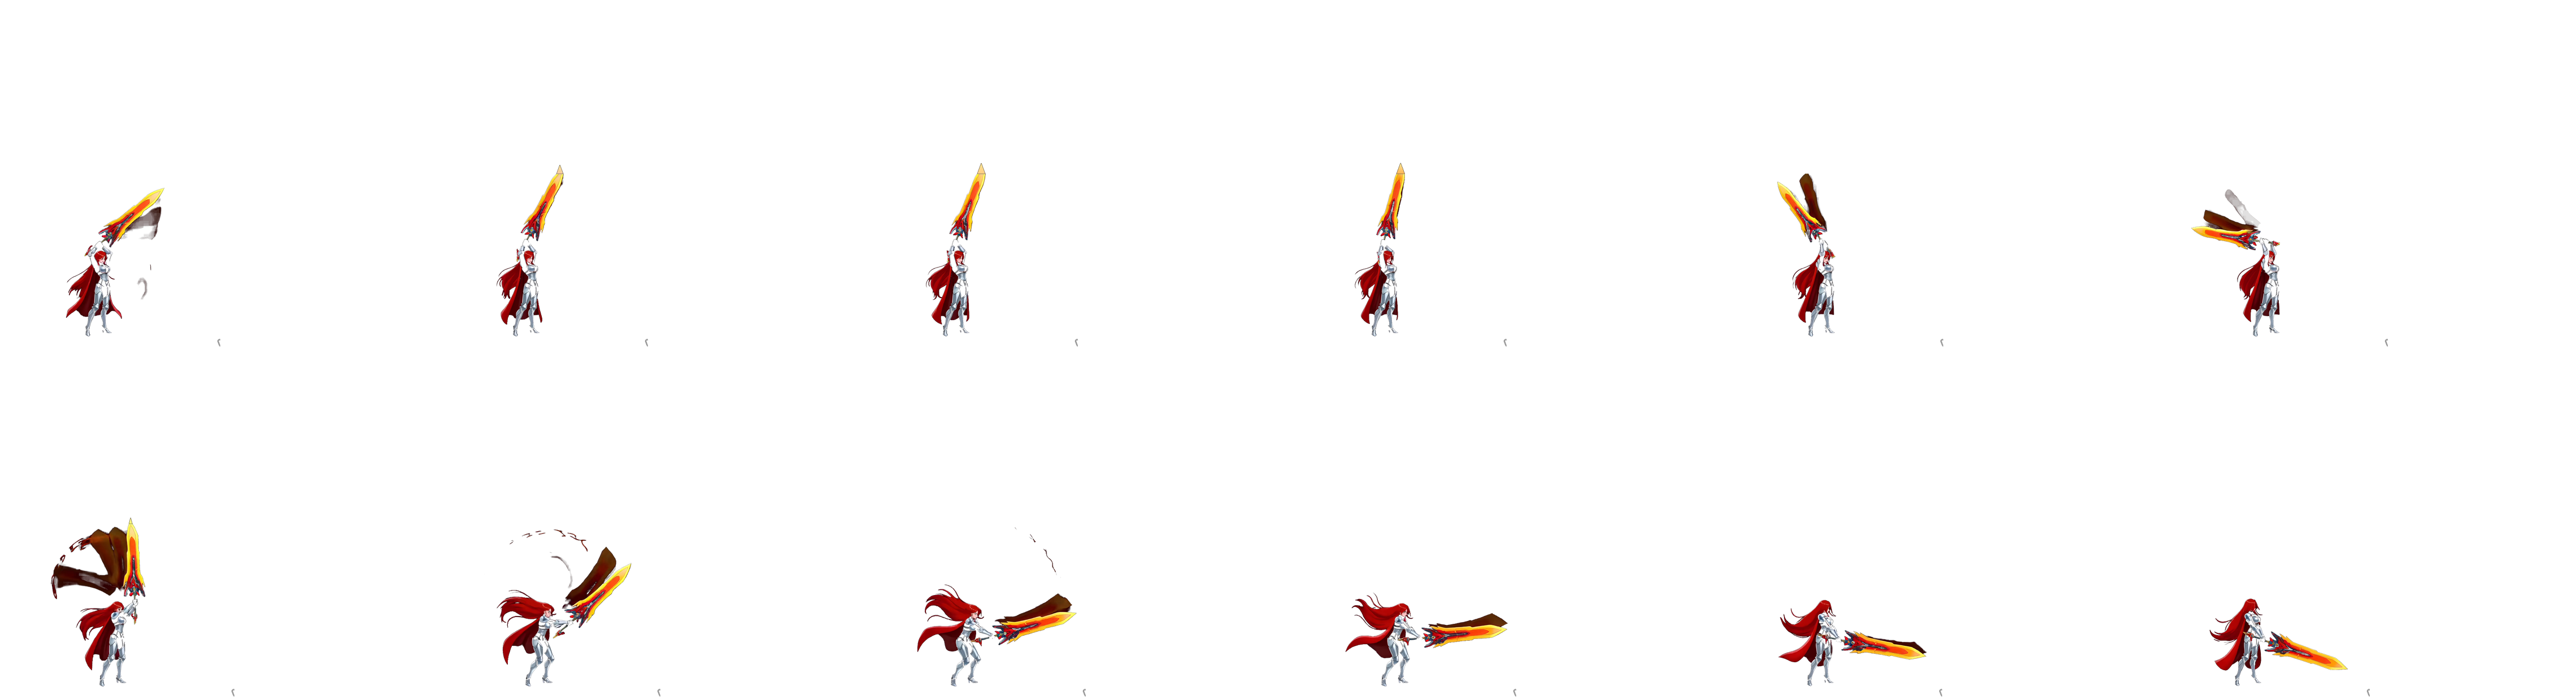
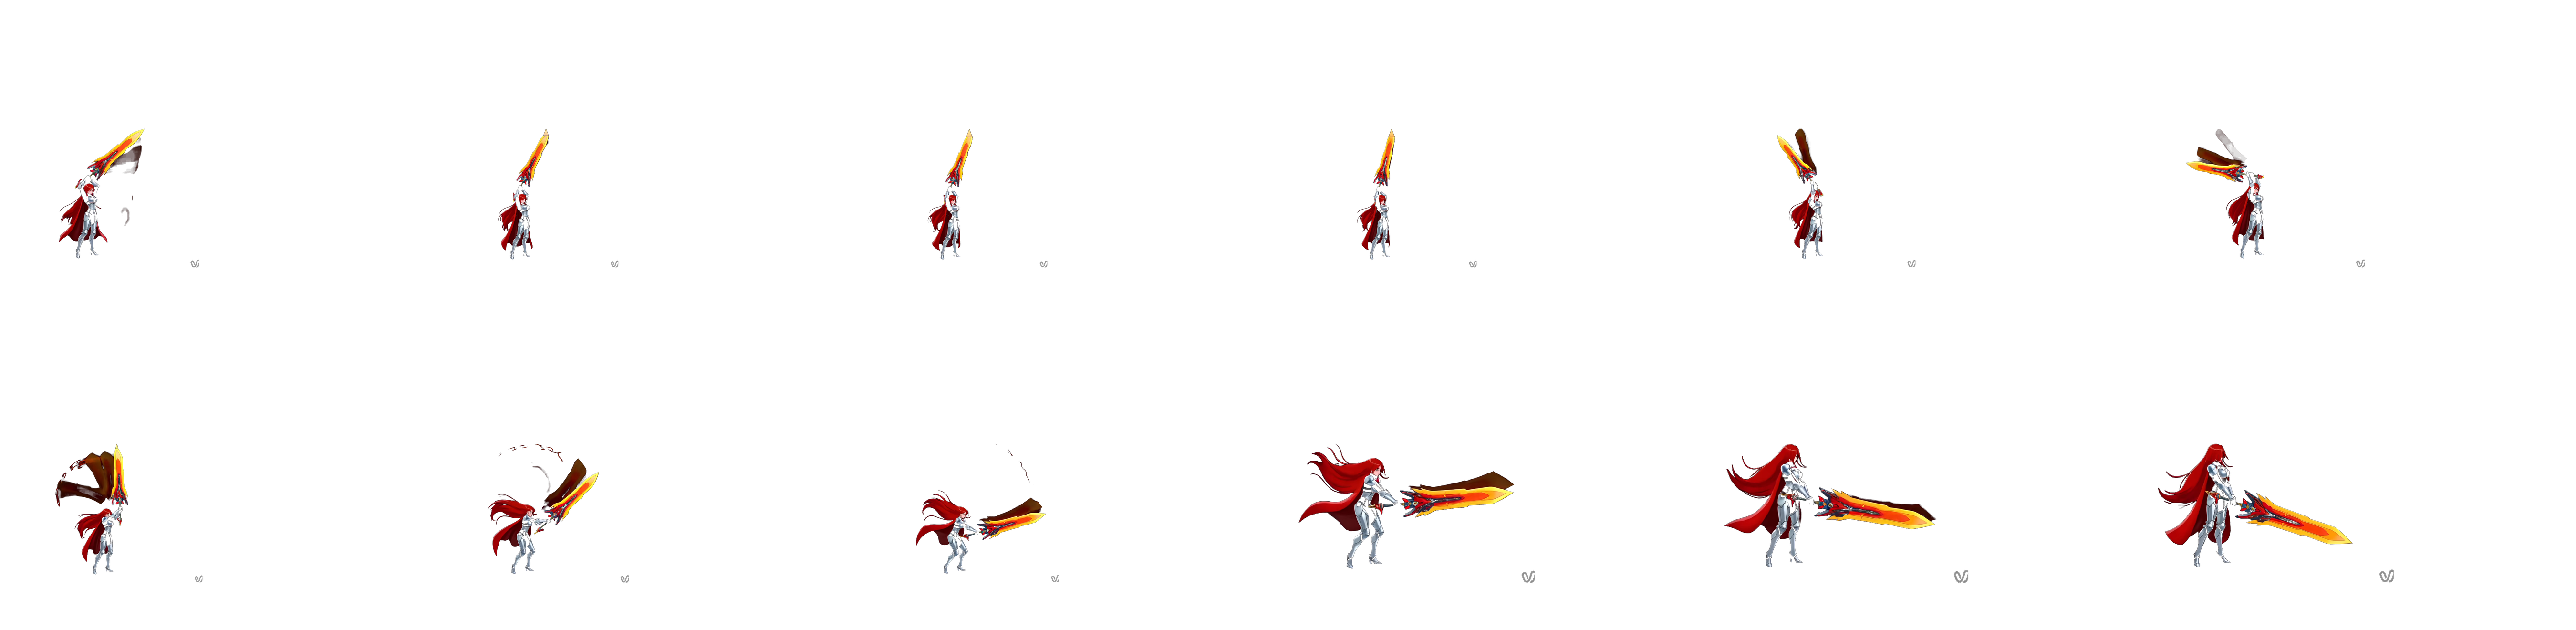
攻擊角色逐幀正規化→每幀身體跟待機一樣大(劍往外延伸,不再人物加武器才一樣大)

diff --git a/index.html b/index.html
@@ -85,7 +85,7 @@ body {
 			<canvas id="canvas" width="960" height="540"></canvas>
 		<script src="index.js"></script>
 		<script>
-const GODOT_CONFIG = {"args":[],"canvasResizePolicy":0,"emscriptenPoolSize":8,"ensureCrossOriginIsolationHeaders":true,"executable":"index","experimentalVK":false,"fileSizes":{"index.pck":19898096,"index.wasm":39509339},"focusCanvas":true,"gdextensionLibs":[],"godotPoolSize":4};
+const GODOT_CONFIG = {"args":[],"canvasResizePolicy":0,"emscriptenPoolSize":8,"ensureCrossOriginIsolationHeaders":true,"executable":"index","experimentalVK":false,"fileSizes":{"index.pck":20006432,"index.wasm":39509339},"focusCanvas":true,"gdextensionLibs":[],"godotPoolSize":4};
 const gameCanvas = document.getElementById('canvas');
 const loader = document.getElementById('loader');
 const loaderFill = document.getElementById('loader-fill');